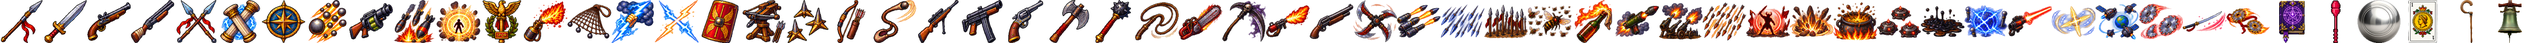
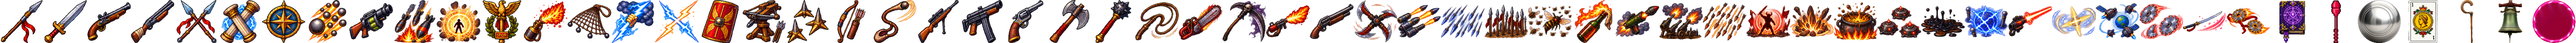
Los Aros de rítmica: salen, se paran en el aire y vuelven
La quinta y última de las armas de la lista. Es la hermana de las RainbowMazas
—diez dibujos, uno por nivel, direcciones al azar— y lo que la separa de verdad
no es el radio ni el daño: es que VUELVE.

Y no es adorno. La maza se gasta yendo; el aro pasa DOS VECES por el mismo
sitio, así que uno lanzado a un claro todavía puede coger a alguien a la
vuelta. El arma perdona la mala suerte que la maza cobra, y a cambio pega menos
y tarda más en volver a lanzar. Sin eso serían las mazas con otro dibujo, y dos
armas iguales pueden salirte las dos en el mismo sorteo.

EL BUMERÁN NO INTEGRA ACELERACIONES. Se guarda la velocidad de salida y en cada
paso se multiplica por un factor que va de +1 a -1 según la vida gastada: la
integral de ese reparto es cero, así que vuelve EXACTAMENTE al punto desde el
que salió, y dos partidas con la misma semilla trazan la misma curva hasta el
último píxel. Medido al nivel 10: sale hasta 44 unidades a media vida y termina
a 3 del sitio donde se lanzó.

Vuelve al SITIO, no al jugador. Es lo que hace un bumerán de verdad, y
perseguir al dueño obligaría a curvar la trayectoria cada paso — más código
para algo que se nota menos que el propio ir y venir.

Y el factor reescribe `vx`/`vy` en vez de mover por otro camino, porque todo lo
demás lee esos dos números: el dibujo se orienta con ellos, el empuje al
golpear sale de ellos y el rebote los invierte. Un bumerán que volviera por su
cuenta pegaría hacia donde ya no va.
[…]

diff --git a/js/datos/armas.js b/js/datos/armas.js
@@ -1321,6 +1321,51 @@ export const ARMAS = {
               { danyoExplosion: 10, recarga: -0.2, radioExplosion: 5 }]
   },
 
+  // --- Aros de rítmica ---------------------------------------------------
+  //
+  // Pedidos por Sergio: como las RainbowMazas pero aros — más área y menos
+  // daño— y VOLVIENDO COMO UN BUMERÁN, que es lo que los separa de verdad de
+  // su hermana. Sin eso serían las mazas con otro dibujo, y dos armas iguales
+  // pueden salirte las dos en el mismo sorteo y sentirse igual.
+  //
+  // Y no es un detalle de adorno: la maza se gasta yendo y el aro pasa DOS
+  // VECES por el mismo sitio. Con perforación 1 —dos enemigos por aro, como la
+  // maza— eso significa que un aro lanzado a un claro puede coger a alguien a
+  // la vuelta, así que el arma perdona la mala suerte que la maza cobra. A
+  // cambio pega menos y tarda más en volver a lanzar.
+  //
+  // UN ARO POR NIVEL, no dos: las mazas salen de dos en dos y así se
+  // distinguen también en cuántos hay volando. Diez al máximo, uno de cada
+  // dibujo de la lámina.
+  arosRitmica: {
+    nombre: 'Aros de rítmica',
+    descripcion: 'Aros que salen girando y vuelven. Cubren mucho y pegan poco.',
+    comportamiento: 'direccionAleatoria',
+    danyo: 12, recarga: 1.5, proyectiles: 1, velocidad: 130, alcance: 150,
+    // RADIO 9 CONTRA LOS 5 DE LA MAZA: es el arma de área de las dos, y el
+    // radio es lo que lo cumple. Un aro es un aro precisamente porque lo que
+    // pilla es el círculo entero.
+    radio: 9, perforacion: 1, empuje: 60,
+    color: '#7ee0c8', estela: '#2a7a6a', largoTrazo: 6,
+    spriteProyectil: 'proyAros',
+    proyectilesPorFotograma: 1,
+    bumeran: true,
+    // Gira despacio: un aro de rítmica ROTA en su plano mientras vuela, no
+    // voltea como una maza. Cinco radianes por segundo es menos de una vuelta
+    // por segundo, que es lo que deja verlo girar sin que se vuelva un borrón.
+    giroProyectil: 5,
+    niveles: [{},
+              { proyectiles: 1, danyo: 2 },
+              { proyectiles: 1, danyo: 2, radio: 1 },
+              { proyectiles: 1, danyo: 2 },
+              { proyectiles: 1, danyo: 3, recarga: -0.12 },
+              { proyectiles: 1, danyo: 2, radio: 1 },
+              { proyectiles: 1, danyo: 3 },
+              { proyectiles: 1, danyo: 3, radio: 1 },
+              { proyectiles: 1, danyo: 3, alcance: 20 },
+              { proyectiles: 1, danyo: 4, recarga: -0.18, radio: 1 }]
+  },
+
   // --- Petanca -----------------------------------------------------------
   //
   // Pedida por Sergio. Bolas de acero que RUEDAN hacia donde miras y van

diff --git a/js/entidades/proyectil.js b/js/entidades/proyectil.js
@@ -92,6 +92,22 @@ function crearProyectil() {
     // vueltas por el aire. Para esas, orientar el dibujo al rumbo lo deja
     // clavado y rígido, que es justo lo contrario de lo que hacen de verdad.
     giro: 0,
+    // BUMERÁN: sale, frena, se para y vuelve. Cero = vuela recto, que es lo
+    // normal.
+    //
+    // La velocidad no se toca al lanzar: lo que se guarda es la de salida
+    // (`vx0`/`vy0`) y en cada paso se multiplica por un factor que va de +1 a
+    // -1 según la vida gastada. Con ese reparto la integral del recorrido es
+    // cero, o sea que vuelve EXACTAMENTE al punto desde el que salió, y sin
+    // integrar aceleraciones: dos partidas con la misma semilla trazan la misma
+    // curva hasta el último píxel.
+    //
+    // Vuelve al SITIO desde el que se lanzó, no al jugador. Es lo que hace un
+    // bumerán de verdad, y perseguir al dueño obligaría a guardarle una
+    // referencia y a curvar la trayectoria cada paso — más código para algo que
+    // se nota menos que el propio ir y venir.
+    bumeran: 0,
+    vx0: 0, vy0: 0,
     // EL ARMA QUE LO DISPARÓ, para apuntarle el daño y las bajas en el resumen.
     // Viaja con el proyectil por el mismo motivo que `duenyo`: quien mira la
     // colisión tiene el proyectil delante y el arma ya no.
@@ -160,6 +176,9 @@ export class Proyectiles {
     p.escala = def.escala || 1;
     p.fotograma = def.fotograma || 0;
     p.arma = def.arma || null;
+    p.bumeran = def.bumeran ? 1 : 0;
+    p.vx0 = p.vx;
+    p.vy0 = p.vy;
     p.radioExplosion = def.radioExplosion || 0;
     p.danyoExplosion = def.danyoExplosion || 0;
     p.estallaAlExpirar = !!def.estallaAlExpirar;
@@ -187,6 +206,21 @@ export class Proyectiles {
       const p = items[k];
       p.xPrev = p.x;
       p.yPrev = p.y;
+
+      // EL BUMERÁN, antes de mover: de +1 a -1 según la vida gastada. A media
+      // vida el factor es cero —el aro se para en el aire, que es el momento
+      // que lo hace reconocible— y de ahí en adelante desanda lo andado.
+      //
+      // Se reescribe `vx`/`vy` y no se mueve por otro camino porque todo lo
+      // demás lee esos dos números: el dibujo se orienta con ellos, el empuje
+      // al golpear sale de ellos y el rebote los invierte. Un bumerán que
+      // volviera por su cuenta pegaría hacia donde ya no va.
+      if (p.bumeran) {
+        const f = 1 - 2 * (p.vidaMax - p.vida) / p.vidaMax;
+        p.vx = p.vx0 * f;
+        p.vy = p.vy0 * f;
+      }
+
       p.x += p.vx * dt;
       p.y += p.vy * dt;
 

diff --git a/herramientas/probar-determinismo.js b/herramientas/probar-determinismo.js
@@ -55,7 +55,11 @@ const PUERTO = 8143;
 // perforacion, dano de contacto y denarios- y esos numeros entran en la foto
 // del mundo desde el primer fotograma, aunque valgan cero. Es la misma firma
 // que dejo el contador de dano de la semana pasada.
-const HUELLA_ESPERADA = '4837249a 4875a3a0 7e981868 b5967e65 83b3a255 f5fa713b b874d5ad';
+// Y al entrar los Aros de ritmica: un arma mas en el sorteo. Se movio UN SOLO
+// grupo de los siete, el sexto — o sea que la partida de la prueba solo se
+// desvia en un tramo y vuelve a coincidir despues. Es lo normal cuando lo que
+// cambia es el reparto del azar y no lo que se hace con el.
+const HUELLA_ESPERADA = '4837249a 4875a3a0 7e981868 b5967e65 83b3a255 fe10a79f b874d5ad';
 
 let fallos = 0;
 function comprobar(condicion, texto) {

diff --git a/manual/manual-jugador.html b/manual/manual-jugador.html
@@ -511,7 +511,7 @@
       <strong>nivel 10</strong>, y cada nivel lo hace más fuerte: más daño, menos
       recarga, más alcance, según lo que sea. Tres <strong>rerolls</strong> por
       partida, por si las cuatro cartas que salen no convencen.</p>
-      <p style="font-size:13px">Hay <strong>63 armas</strong> y no vas a ver ni
+      <p style="font-size:13px">Hay <strong>64 armas</strong> y no vas a ver ni
       la mitad en una partida: de ahí que dos partidas seguidas se jueguen
       distinto. La ambientación va mezclada a propósito —honda balear junto a
       subfusil—, que es una decisión tomada y no un descuido: Mérida es una

diff --git a/js/sistemas/armas.js b/js/sistemas/armas.js
@@ -942,6 +942,8 @@ export class Armas {
     // `defProyectil` es compartido, y lo que no se escriba se queda con lo del
     // disparo anterior — de otra arma.
     d.arma = arma;
+    // Ida y vuelta, si el arma lo pide. Hoy solo los Aros de rítmica.
+    d.bumeran = !!arma.def.bumeran;
     // La FORMA con que se dibuja. Sale del comportamiento salvo que el arma diga
     // otra cosa: ver FORMA_POR_COMPORTAMIENTO, aquí arriba.
     d.forma = formaDe(arma);

diff --git a/README.md b/README.md
@@ -12,7 +12,7 @@ tres armas cada vez, y acaba con la Loba Capitolina.
 [![ES6](https://img.shields.io/badge/JavaScript-m%C3%B3dulos%20ES6-f7df1e?style=flat-square)](#)
 [![Sin dependencias](https://img.shields.io/badge/dependencias-cero-2ea043?style=flat-square)](#)
 [![Sin build](https://img.shields.io/badge/build-ninguno-2ea043?style=flat-square)](#)
-[![Armas](https://img.shields.io/badge/armas-63-e2c27a?style=flat-square)](#)
+[![Armas](https://img.shields.io/badge/armas-64-e2c27a?style=flat-square)](#)
 [![Cooperativo](https://img.shields.io/badge/cooperativo-hasta%204-e2c27a?style=flat-square)](#)
 [![Licencia: GPL v3](https://img.shields.io/badge/licencia-GPLv3-blue?style=flat-square)](LICENSE)
 
@@ -260,7 +260,7 @@ que huyen en vez de perseguir.
 
 ## El arsenal
 
-**63 armas**, tres opciones cada vez que subes de nivel, y evoluciones que piden
+**64 armas**, tres opciones cada vez que subes de nivel, y evoluciones que piden
 un arma al 8 más su pasivo y un cofre de élite.
 
 ![Arsenal](docs/arsenal.png)
